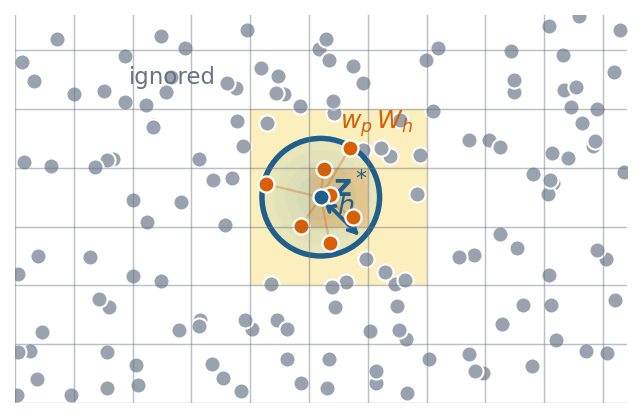
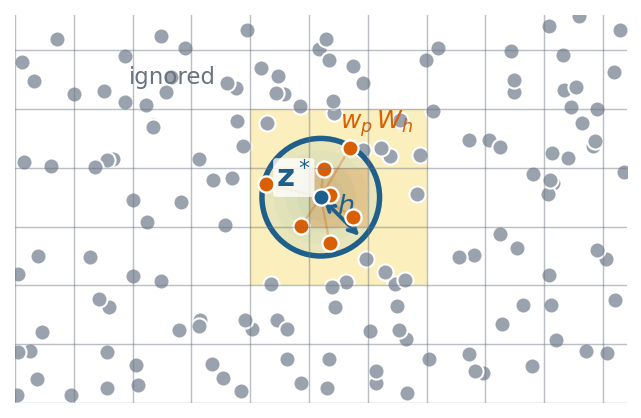
PIC docs: address review (5D Liouville caveat, default moments, tile integrals, KDE in position space)
- Liouville: exact for the Vlasov flow; for guiding centers f0, s0 constant only up to B*_par/B0
- loading: moments default to zero shift / unit thermal velocity (also in LoadingParameters docstring),
  tesselation weights are tile integrals, specific_markers is a separate option
- binning: delta-f markers give delta-f in both histograms; divide_by_jac divides the spatial Jacobian only
- KDE: eval_density is a 3-form density in position space (also its docstring)
- math nits: notation of u, f^vol != 0 assumption, single alignment point in split math, tilde f_h
- figures: labels moved off the region edge and the h arrow

Changed region(s): [[0.4056, 0.3732, 0.4992, 0.4976], [0.5304, 0.4043, 0.5928, 0.4665]]

diff --git a/doc/pics/pic/make_pic_figures.py b/doc/pics/pic/make_pic_figures.py
@@ -179,8 +179,8 @@ def partition_figure():
     ax.text(0.0, 0.0, r"$\Phi_t$", fontsize=15, color=ARROW, ha="center")
     ax.text(-3.1, 0.15, r"$\Omega_0 = \bigcup_p \Omega_0^p$", fontsize=14, color=BLUE_EDGE, ha="right")
     ax.text(-3.1, -0.3, r"$f^{\mathrm{vol}}(0,\mathbf{z}_0)$", fontsize=13.5, color=BLUE_EDGE, ha="right")
-    ax.text(3.3, -0.2, r"$\Phi_t(\Omega_0)$", fontsize=14.5, color=ORANGE_EDGE, ha="center")
-    ax.text(3.2, -0.5, r"$f^{\mathrm{vol}}(t,\mathbf{z})$", fontsize=13.5, color=ORANGE_EDGE, ha="center")
+    ax.text(3.75, -0.25, r"$\Phi_t(\Omega_0)$", fontsize=14.5, color=ORANGE_EDGE, ha="center")
+    ax.text(3.65, -0.55, r"$f^{\mathrm{vol}}(t,\mathbf{z})$", fontsize=13.5, color=ORANGE_EDGE, ha="center")
 
     ax.set_aspect("equal")
     ax.set_xlim(-4.3, 4.2)
@@ -217,7 +217,17 @@ def kernel_density_figure(with_boxes):
         ax.plot([px, z_star[0]], [py, z_star[1]], color="#d95f02", lw=1.1, alpha=0.32, zorder=2)
 
     ax.scatter([z_star[0]], [z_star[1]], s=size, color="#1f5f8b", edgecolor="white", linewidth=1.1, zorder=5)
-    ax.text(0.1, 0.0, r"$\mathbf{z}^*$", color="#1f5f8b", fontsize=15, weight="bold")
+    ax.text(
+        -0.08,
+        0.08,
+        r"$\mathbf{z}^*$",
+        color="#1f5f8b",
+        fontsize=15,
+        weight="bold",
+        ha="right",
+        zorder=7,
+        bbox=dict(boxstyle="round,pad=0.1", facecolor="white", edgecolor="none", alpha=0.8),
+    )
     ax.annotate(
         "",
         xy=(h / np.sqrt(2), -h / np.sqrt(2)),

diff --git a/src/struphy/pic/base.py b/src/struphy/pic/base.py
@@ -1529,8 +1529,8 @@ class Particles(metaclass=ABCMeta):
         (see :ref:`particle_discrete`), from the initial distribution function :math:`f^0_{\textnormal{in}}`
         specified in the parameter file and from the sampling density :math:`s^0_{\textnormal{in}}` of
         :meth:`~struphy.pic.base.Particles.draw_markers`. Volume-form initial conditions are transformed to
-        0-forms first. With ``loading="tesselation"``, the weights are the cell averages of
-        :math:`f^\textrm{vol}_{\textnormal{in}}` over the tiles instead.
+        0-forms first. With ``loading="tesselation"``, the weights are the integrals of
+        :math:`f^\textrm{vol}_{\textnormal{in}}` over the tiles instead (Gauss-Legendre quadrature).
         Moreover, it sets the corresponding columns for "w0", "s0" and "weights" in the markers array.
         If :attr:`~struphy.pic.base.Particles.control_variate` is True, the background :attr:`~struphy.pic.base.Particles.f0` is subtracted.
 
@@ -2276,7 +2276,9 @@ class Particles(metaclass=ABCMeta):
         derivative=0,
         fast=True,
     ):
-        """Evaluate particle number density (0-form) using an SPH smoothing kernel.
+        """Evaluate the particle number density as a 3-form in logical space (sum of the marker weights times an
+        SPH smoothing kernel), see :ref:`pic_kde`. Divide by the Jacobian determinant of the mapping to obtain
+        the density in physical space.
 
         Parameters
         ----------

diff --git a/src/struphy/particles/parameters.py b/src/struphy/particles/parameters.py
@@ -38,8 +38,8 @@ class LoadingParameters:
         If None, no seed is applied.
 
     moments : tuple, optional
-        Mean velocities and temperatures defining the Gaussian velocity distribution.
-        If None, automatically computed from the background distribution.
+        Mean velocities and thermal velocities defining the Gaussian velocity distribution of the markers,
+        as ``(u_1, ..., u_vdim, vth_1, ..., vth_vdim)``. If None, zero mean and unit thermal velocities are used.
 
     B0 : float | Callable | "equil", default="equil"
         Magnetic field strength :math:`B_0` used to draw the magnetic moment :math:`\\mu = v_\\perp^2/(2B_0)`

diff --git a/doc/sections/subsections/numerics-pic.rst b/doc/sections/subsections/numerics-pic.rst
@@ -27,7 +27,7 @@ Most kinetic equations in Struphy are conservation laws of the form
     \partial_t f^\textrm{vol} + \nabla_{\mathbf z} \cdot \big(\mathbf u(t, \mathbf z)\, f^\textrm{vol}\big) = S\,,
     \qquad f^\textrm{vol}(0, \mathbf z) = f^\textrm{vol}_\textnormal{in}(\mathbf z)\,,
 
-where :math:`\mathbf u: (t, \mathbf z) \mapsto \mathbb R^n` is the phase-space velocity (the characteristics of
+where :math:`\mathbf u: \mathbb R \times \Omega \to \mathbb R^n` is the phase-space velocity (the characteristics of
 the equation), :math:`S` is a source term (zero for the Vlasov equation, non-zero e.g. for collisions or for the
 :ref:`delta-f method <pic_deltaf>`), and :math:`f^\textrm{vol}` is the distribution function as a *density*
 (or *volume form*), whose integral over a region of phase space is the number of particles in that region
@@ -72,7 +72,7 @@ and without source term (:math:`S = 0`) **the weights stay constant**. The initi
     of the kinetic equation. The density :math:`f^\textrm{vol}` is transported with them; the number of particles
     in :math:`\Phi_t(\Omega_0)` is the same as in :math:`\Omega_0`.
 
-In Struphy, the initial markers are drawn at random from a *sampling density* :math:`s^\textrm{vol}_\textnormal{in}`
+In Struphy, the initial markers are usually drawn at random (Monte-Carlo loading) from a *sampling density* :math:`s^\textrm{vol}_\textnormal{in}`
 (a probability density on :math:`\Omega`), and the initial weights are
 
 .. math::
@@ -122,7 +122,8 @@ a. the Monte-Carlo error :math:`\sim 1/\sqrt N` does not depend on the dimension
    while the cost of grids grows exponentially with :math:`n`;
 b. markers move independently of each other, which makes PIC easy to parallelize;
 c. the markers follow the characteristics exactly (up to the time integrator): there is no numerical diffusion
-   and no CFL condition from phase-space advection.
+   and no CFL condition from phase-space advection (the time step is still limited by the accuracy and
+   stability of the pusher and of the coupling to the fields).
 
 The price is the slow convergence :math:`\sim 1/\sqrt N` and the associated noise in the simulations.
 Noise reduction techniques such as the :ref:`control_var` and the :ref:`delta-f method <pic_deltaf>` are therefore
@@ -173,8 +174,8 @@ Struphy computes in logical coordinates :math:`\boldsymbol\eta \in (0,1)^3`, map
     \qquad J(\mathbf z) = |\det DF(\boldsymbol\eta)|\, J_v(\mathbf z)\,,
 
 where :math:`J_v` is the Jacobian determinant of the velocity coordinates (:math:`J_v = 1` for Cartesian
-velocities, :math:`J_v = B_0` for :math:`(v_\parallel, \mu)`, see ``velocity_jacobian_det`` of the
-backgrounds in :mod:`struphy.kinetic_background.maxwellians`).
+velocities, :math:`J_v = B_0` (up to constants) for :math:`(v_\parallel, \mu)`, see ``velocity_jacobian_det``
+of the backgrounds in :mod:`struphy.kinetic_background.maxwellians`).
 
 A distribution function can therefore be given in two ways:
 
@@ -221,8 +222,8 @@ this is equivalent to
     \frac{\textrm d}{\textrm d t} f^\textrm{vol}\big(t, \mathbf z_p(t)\big) = - f^\textrm{vol}\, \nabla_{\mathbf z} \cdot \mathbf u
     \qquad \textnormal{along}\quad \dot{\mathbf z}_p = \mathbf u(t, \mathbf z_p)\,.
 
-**Liouville's theorem.** The physical flows of Struphy's kinetic equations preserve the physical phase-space
-volume. In logical coordinates this means :math:`\nabla_{\mathbf z} \cdot (J \mathbf u) = 0`, i.e.
+**Liouville's theorem.** The Vlasov flow preserves the physical phase-space volume (the Lorentz force is
+divergence-free in velocity space). In logical coordinates this means :math:`\nabla_{\mathbf z} \cdot (J \mathbf u) = 0`, i.e.
 :math:`J\, \nabla_{\mathbf z} \cdot \mathbf u = - \mathbf u \cdot \nabla_{\mathbf z} J`. Then, from
 :math:numref:`pic:transport_vol_ode`,
 
@@ -231,12 +232,17 @@ volume. In logical coordinates this means :math:`\nabla_{\mathbf z} \cdot (J \ma
     \frac{\textrm d}{\textrm d t} f^0\big(t, \mathbf z_p(t)\big)
     = \frac{\textrm d}{\textrm d t} \frac{f^\textrm{vol}}{J}
     = \frac{-f^\textrm{vol}\, \nabla_{\mathbf z} \cdot \mathbf u}{J} - \frac{f^\textrm{vol}}{J^2}\, \mathbf u \cdot \nabla_{\mathbf z} J
-    = 0\,:
+    = 0\,.
 
-**the 0-form is constant along the characteristics**, the familiar statement that the distribution function is
-constant along particle orbits. The same holds for the sampling density :math:`s^0` (see :ref:`pic_eom`), which is
-why Struphy evaluates :math:`s^0` only once, at loading, and stores it with each marker (column ``s0`` of the
+Hence **the 0-form is constant along the characteristics**, the familiar statement that the distribution function
+is constant along particle orbits. The same holds for the sampling density :math:`s^0` (see :ref:`pic_eom`), which
+is why Struphy evaluates :math:`s^0` only once, at loading, and stores it with each marker (column ``s0`` of the
 marker array, see :class:`~struphy.pic.base.Particles`).
+
+For guiding centers, the phase-space volume conserved by the flow is :math:`B^*_\parallel\, \textrm d v_\parallel\, \textrm d \mu`
+(times the spatial volume), with the modified field :math:`B^*_\parallel = B_\parallel + O(\epsilon)` of
+guiding-center theory. With Struphy's :math:`J_v = B_0`, the 0-forms :math:`f^0` and :math:`s^0` are therefore
+constant along guiding-center orbits only up to the ratio :math:`B^*_\parallel / B_0 = 1 + O(\epsilon)`.
 
 
 .. _monte_carlo:
@@ -393,11 +399,13 @@ Loading is configured with :class:`~struphy.particles.parameters.LoadingParamete
   * ``"sobol_standard"``: quasi-random Sobol sequence;
   * ``"sobol_antithetic"``: Sobol points, each mirrored into 64 symmetric markers (only for 3 velocity
     dimensions), which removes odd moments of the sampling error;
-  * ``"tesselation"``: markers on a regular grid of tiles in each sorting box, with weights from cell averages of
-    :math:`f^\textrm{vol}_\textnormal{in}` computed by Gauss-Legendre quadrature (``n_quad`` points),
-    see :ref:`pic_two_ways`;
-  * ``"restart"`` / ``"external"``: read markers from a restart file or an external HDF5 file;
-  * ``specific_markers``: markers at given phase-space points (e.g. for orbit tests).
+  * ``"tesselation"``: markers on a regular grid of tiles in each sorting box, with weights equal to the
+    integrals of :math:`f^\textrm{vol}_\textnormal{in}` over the tiles, computed by Gauss-Legendre quadrature
+    (``n_quad`` points), see :ref:`pic_two_ways`;
+  * ``"restart"`` / ``"external"``: read markers from a restart file or an external HDF5 file.
+
+* **Specific markers** (``specific_markers``): after loading, the first markers are replaced by markers at given
+  phase-space points (e.g. for orbit tests).
 
 For the Monte-Carlo algorithms the sampling density is a product of a spatial part and a Gaussian in velocity,
 
@@ -409,8 +417,9 @@ For the Monte-Carlo algorithms the sampling density is a product of a spatial pa
     \exp\left[-\frac{(v_i - u_i)^2}{2 v_{\textrm{th},i}^2}\right]\,,
 
 where :math:`d_v` is the dimension of velocity space. The shifts :math:`u_i` and thermal velocities
-:math:`v_{\textrm{th},i}` are given by ``moments`` or taken from the background of the species (importance
-sampling, see :ref:`monte_carlo`). The spatial part is a normalized 3-form on the unit cube, chosen with
+:math:`v_{\textrm{th},i}` are given by ``moments``; the default is :math:`u_i = 0` and
+:math:`v_{\textrm{th},i} = 1`. Adapting them to the distribution function reduces the noise (importance sampling,
+see :ref:`monte_carlo`). The spatial part is a normalized 3-form on the unit cube, chosen with
 ``spatial``: ``"uniform"`` gives :math:`n^3 = 1`, ``"disc"`` gives :math:`n^3 = 2\eta_1`, which is uniform on the
 image of the unit square under a polar (disc) mapping. Velocities are drawn by inverse transform sampling, see
 :meth:`~struphy.pic.base.Particles.draw_markers` for details, also for guiding-center markers.
@@ -477,9 +486,9 @@ Comparing with :math:numref:`int_fh` term by term (a sufficient condition for al
 .. math::
     :label: def:dot_qw
 
-    \dot{\mathbf z}_p &= \mathbf u(t, \mathbf z_p)\,, \qquad && \mathbf z_p(0) = \mathbf z_{p0}\,,
+    \dot{\mathbf z}_p &= \mathbf u(t, \mathbf z_p)\,, \qquad \mathbf z_p(0) = \mathbf z_{p0}\,,
     \\[2mm]
-    \dot w_p &= \frac 1N\, \frac{S(t, \mathbf z_p)}{s^\textrm{vol}(t, \mathbf z_p)}\,, \qquad && w_p(0) = w_{p0}\,.
+    \dot w_p &= \frac 1N\, \frac{S(t, \mathbf z_p)}{s^\textrm{vol}(t, \mathbf z_p)}\,, \qquad w_p(0) = w_{p0}\,.
 
 **The sampling density.** The markers are drawn from :math:`s^\textrm{vol}_\textnormal{in}` and then move with
 :math:`\dot{\mathbf z}_p = \mathbf u`. Their density at time :math:`t` is therefore the transported density,
@@ -560,7 +569,8 @@ with :math:numref:`int_fh` (a sufficient condition for :math:numref:`pic:princip
     \dot w_p &= \frac 1N \frac{S(t, \mathbf z_p)}{s^\textrm{vol}(t, \mathbf z_p)}\,.
 
 These are two equations for three unknowns (:math:`\mathbf z_p`, :math:`w_p` and :math:`s^\textrm{vol}`). We close
-them by *defining* the weights as
+them by *defining* the weights as (assuming :math:`f^\textrm{vol} \neq 0` at the markers, so that we can divide by
+:math:`w_p` and :math:`f^\textrm{vol}` below)
 
 .. math::
     :label: def:weights_t
@@ -601,9 +611,9 @@ obtained by solving
 .. math::
     :label: pic:eqs:compressible
 
-    \dot{\mathbf z}_p &= \mathbf u(t, \mathbf z_p)\,, \qquad &&\mathbf z_p(0) = \mathbf z_{p0} \sim s^\textrm{vol}_\textnormal{in}\,,
+    \dot{\mathbf z}_p &= \mathbf u(t, \mathbf z_p)\,, \qquad \mathbf z_p(0) = \mathbf z_{p0} \sim s^\textrm{vol}_\textnormal{in}\,,
     \\[2mm]
-    \dot w_p &= \frac 1N \frac{S(t, \mathbf z_p)}{s^\textrm{vol}(t, \mathbf z_p)}\,, \qquad &&w_p(0) = \frac 1N \frac{f^\textrm{vol}_\textnormal{in}(\mathbf z_{p0})}{s^\textrm{vol}_\textnormal{in}(\mathbf z_{p0})}\,,
+    \dot w_p &= \frac 1N \frac{S(t, \mathbf z_p)}{s^\textrm{vol}(t, \mathbf z_p)}\,, \qquad w_p(0) = \frac 1N \frac{f^\textrm{vol}_\textnormal{in}(\mathbf z_{p0})}{s^\textrm{vol}_\textnormal{in}(\mathbf z_{p0})}\,,
 
 with :math:`s^\textrm{vol}(t, \mathbf z_p(t)) = s^\textrm{vol}_\textnormal{in}(\mathbf z_{p0}) \exp\big(-\int_0^t \nabla_{\mathbf z} \cdot \mathbf u(\tau, \mathbf z_p(\tau))\,\textrm d \tau\big)`.
 For incompressible flow, :math:`\nabla_{\mathbf z} \cdot \mathbf u = 0`, the sampling density is constant along
@@ -675,7 +685,8 @@ with the time-dependent **delta-f weights**
     = w_{p0} - \frac 1N \frac{\mathcal M^0\big(t, \mathbf z_p(t)\big)}{s^0_\textnormal{in}(\mathbf z_{p0})}\,.
 
 For the second equality we used that, without source, :math:`f^0/s^0 = N w_{p0}` and :math:`s^0` are constant along
-the trajectories (:ref:`pic_eom`). The full-f weights :math:`w_{p0}` stay constant; the delta-f weights are
+the trajectories (:ref:`pic_eom`; for guiding centers up to :math:`O(\epsilon)`, see :ref:`pic_phase_space`).
+The full-f weights :math:`w_{p0}` stay constant; the delta-f weights are
 recomputed from them whenever the markers have moved. The variance is now
 
 .. math::
@@ -784,8 +795,8 @@ We want an approximation of the *reduced* 2D density
     f^\textnormal{red}(t, \eta_1, v_1) := \int_{(0, 1)^2}\int_{\mathbb R^2} g(t, \boldsymbol\eta, \mathbf v)\,\textrm d \eta_2\, \textrm d \eta_3\, \textrm d v_2\, \textrm dv_3\,,
 
 where :math:`g` is either the volume form :math:`f^\textrm{vol}` or the distribution function per logical volume,
-:math:`f^\textrm{vol}/|\det DF|` (which equals the 0-form :math:`f^0` for Cartesian velocities). Note that a 0-form
-integrated over some of the coordinates depends on the coordinates; the result is still a useful picture of the
+:math:`f^\textrm{vol}/|\det DF|` (which equals the 0-form :math:`f^0` for Cartesian velocities). Note that the
+reduced function depends on the choice of coordinates (it is not invariant); it is still a useful picture of the
 distribution function. Given bin edges :math:`(\eta_{1,i})_i` and :math:`(v_{1,j})_j`, we approximate
 :math:`f^\textnormal{red}` on a bin :math:`\Omega_{ij} = (\eta_{1,i}, \eta_{1,i+1}) \times (v_{1,j}, v_{1,j+1})` by its
 mean value over that bin:
@@ -813,7 +824,10 @@ In Struphy, binning is done by :meth:`struphy.pic.base.Particles.binning`, confi
 :class:`~struphy.particles.parameters.BinningPlot`. It returns two histograms: the **full-f** histogram with the
 initial weights :math:`w_{p0}` (which represent :math:`f` when there is no source), and the **delta-f** histogram with
 the current weights :math:`w_p` (equal to :math:`w_{p0}` without control variate, the delta-f weights
-:math:numref:`pic:cv_weights` with control variate). ``divide_by_jac`` selects :math:`g = f^\textrm{vol}/|\det DF|`.
+:math:numref:`pic:cv_weights` with control variate). For :ref:`delta-f markers <pic_deltaf>`, both histograms
+represent the perturbation: the initial weights carry :math:`\delta f_\textnormal{in}` and the current weights
+:math:`\delta f(t)`. ``divide_by_jac=True`` (default) selects :math:`g = f^\textrm{vol}/|\det DF|`; only the spatial
+Jacobian is divided out, so for guiding-center markers :math:`g = J_v f^0`.
 Besides the density, velocity moments can be binned by multiplying the weights with :math:`v_i`
 (``"current"``), :math:`v_i v_j` (``"energy_tensor"``) or :math:`|\mathbf v|^2 v_i` (``"heat_flux"``).
 
@@ -829,7 +843,7 @@ kernel** :math:`W_h` of width :math:`h` (e.g. a Gaussian), normalized to :math:`
 
 .. math::
 
-    f_{h,N}(t, \mathbf z) := (W_h * f_h)(t, \mathbf z) = \int_\Omega W_h(\mathbf z - \mathbf z')\, f_h(t, \mathbf z')\,\textrm d \mathbf z'
+    \tilde f_h(t, \mathbf z) := (W_h * f_h)(t, \mathbf z) = \int_\Omega W_h(\mathbf z - \mathbf z')\, f_h(t, \mathbf z')\,\textrm d \mathbf z'
     = \sum_{p=1}^N w_p\, W_h\big(\mathbf z - \mathbf z_p(t)\big)\,.
 
 If :math:`W_h` vanishes outside a ball of radius :math:`h`, only markers within distance :math:`h` of the evaluation
@@ -837,7 +851,7 @@ point :math:`\mathbf z^*` contribute (:ref:`figure <fig:pic_kernel_density>`):
 
 .. math::
 
-    f_{h,N}(t, \mathbf z^*) = \sum_{p\,:\, |\mathbf z^* - \mathbf z_p(t)| < h} w_p\, W_h\big(\mathbf z^* - \mathbf z_p(t)\big)\,.
+    \tilde f_h(t, \mathbf z^*) = \sum_{p\,:\, |\mathbf z^* - \mathbf z_p(t)| < h} w_p\, W_h\big(\mathbf z^* - \mathbf z_p(t)\big)\,.
 
 .. _fig:pic_kernel_density:
 
@@ -862,9 +876,18 @@ are sorted into **boxes** of size at least :math:`h`. To evaluate at :math:`\mat
     Box-based evaluation: the markers are sorted into boxes of size :math:`\geq h`; for the evaluation at
     :math:`\mathbf z^*` only the box of :math:`\mathbf z^*` (dark) and its neighbours (light) are searched.
 
-In Struphy, the density in logical space is evaluated by :meth:`struphy.pic.base.Particles.eval_density`, which
-uses the sorting boxes (``boxes_per_dim`` in :class:`~struphy.particles.parameters.SortingParameters`) and the
-smoothing kernels in ``struphy.pic.sph_smoothing_kernels`` (trigonometric, Gaussian, linear; 1D, 2D, 3D). As
-a diagnostic, it is switched on with :class:`~struphy.particles.parameters.KernelDensityPlot` in the saving
-parameters; the kernel width is then one sorting box in each direction. The same technique is the basis of
+In Struphy, kernel density estimates are computed in position space only:
+:meth:`struphy.pic.base.Particles.eval_density` evaluates
+
+.. math::
+
+    n_h(t, \boldsymbol\eta) = \sum_{p=1}^N w_p\, W_h\big(\boldsymbol\eta - \boldsymbol\eta_p(t)\big)
+    \approx \int f^\textrm{vol}(t, \boldsymbol\eta, \mathbf v)\,\textrm d \mathbf v\,,
+
+the number density as a 3-form in logical coordinates (divide by :math:`|\det DF|` to get the physical density).
+It uses the sorting boxes (``boxes_per_dim`` in :class:`~struphy.particles.parameters.SortingParameters`) and the
+smoothing kernels in ``struphy.pic.sph_smoothing_kernels`` (trigonometric, Gaussian, linear; 1D, 2D, 3D). As a
+diagnostic, it is switched on with :class:`~struphy.particles.parameters.KernelDensityPlot` in the saving
+parameters; the kernel is then a Gaussian with a width of one sorting box in each direction. With the control
+variate or delta-f markers, the current weights are used, so the estimate is that of :math:`\delta f`. The same technique is the basis of
 :ref:`smoothed particle hydrodynamics <sph_method>`.
